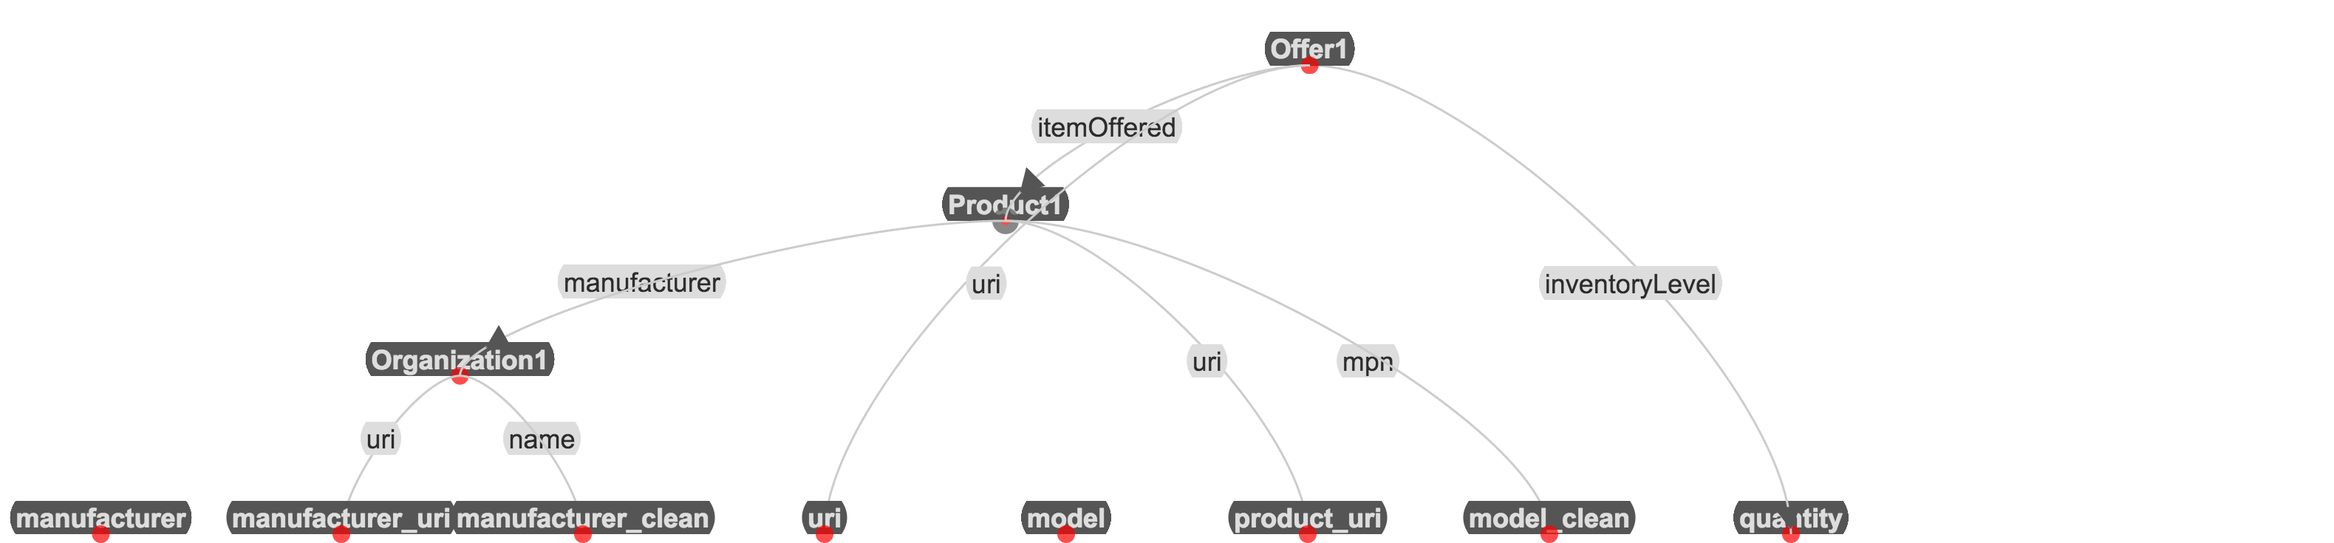
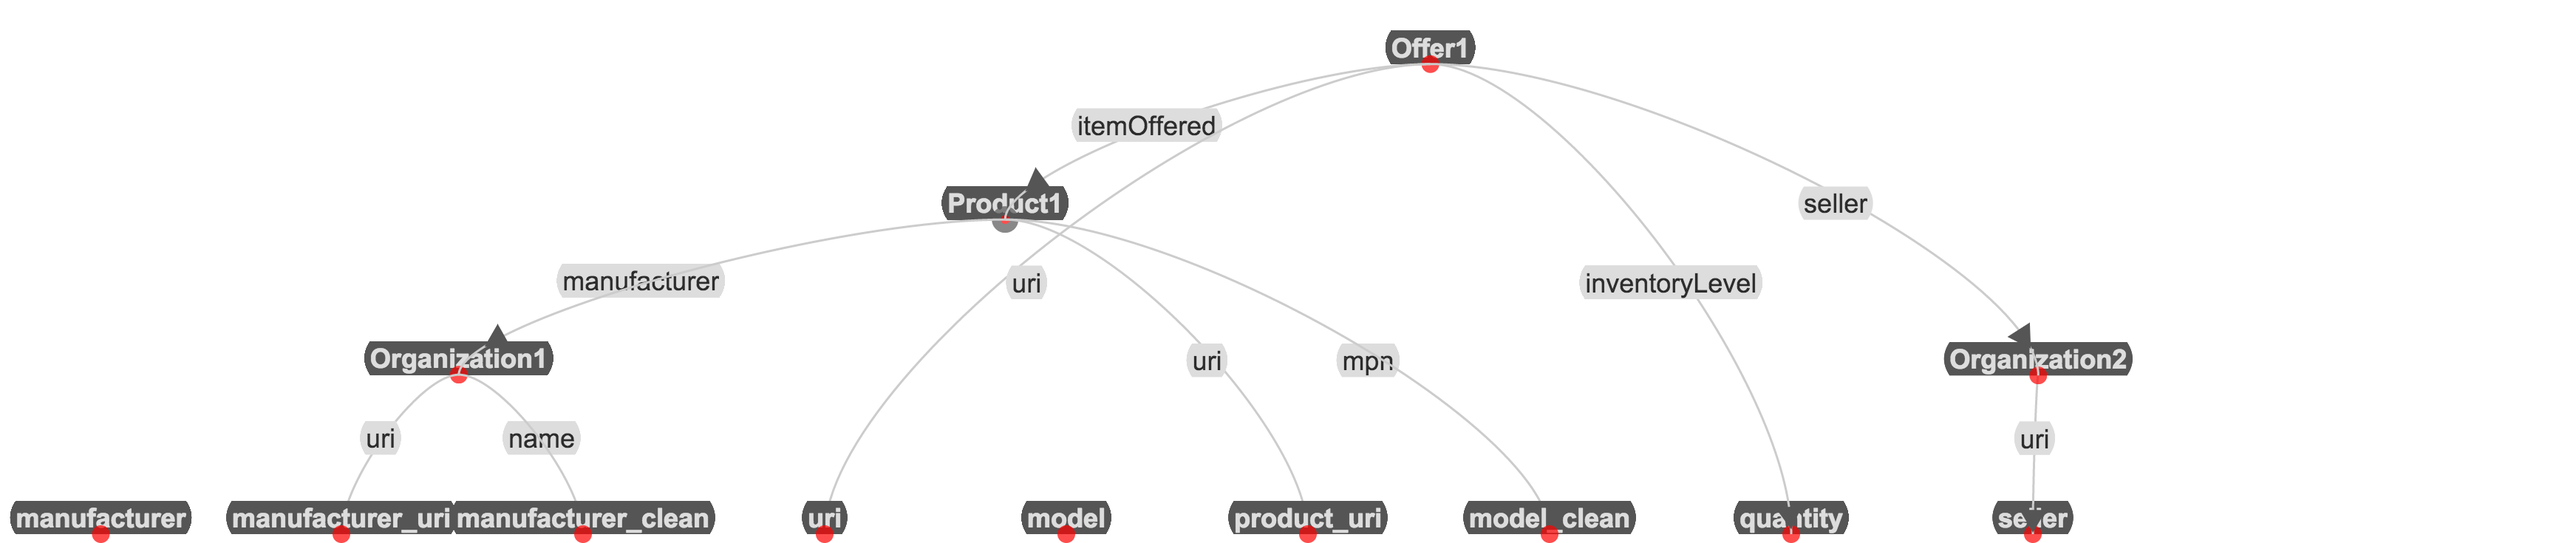
Revise abacus to include seller organization

diff --git a/versions/2.0/datasets/electronics/abacuselect/abacuselect-model.md b/versions/2.0/datasets/electronics/abacuselect/abacuselect-model.md
@@ -40,6 +40,7 @@ return el_product_uri(getValue("model"))
 | _model_clean_ | `schema:mpn` | `schema:Product1`|
 | _product_uri_ | `uri` | `schema:Product1`|
 | _quantity_ | `schema:inventoryLevel` | `schema:Offer1`|
+| _seller_ | `uri` | `schema:Organization2`|
 | _uri_ | `uri` | `schema:Offer1`|
 
 
@@ -47,4 +48,5 @@ return el_product_uri(getValue("model"))
 | From | Property | To |
 |  --- | -------- | ---|
 | `schema:Offer1` | `schema:itemOffered` | `schema:Product1`|
+| `schema:Offer1` | `schema:seller` | `schema:Organization2`|
 | `schema:Product1` | `schema:manufacturer` | `schema:Organization1`|
